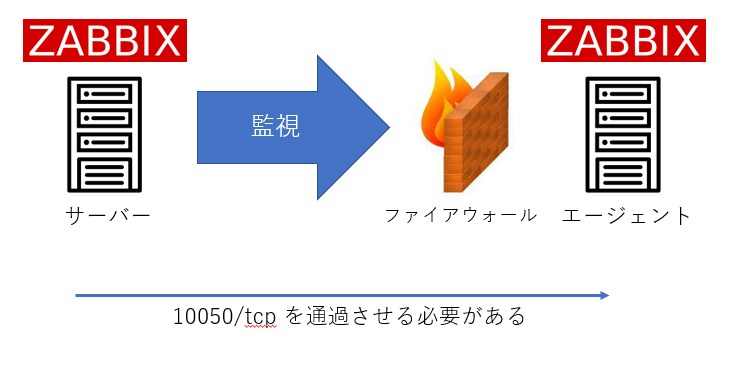
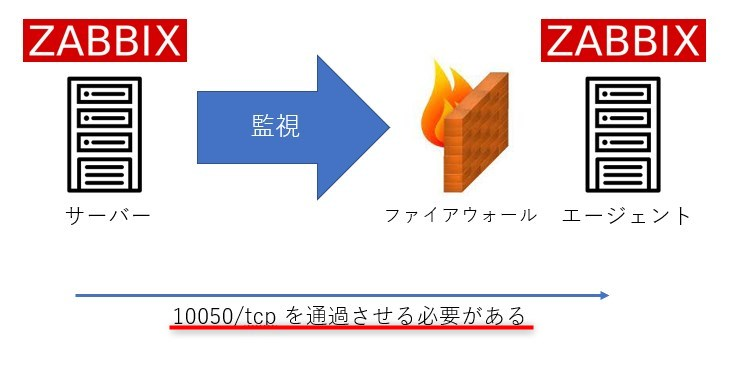
画像の差替と微修正

Changed region(s): [[0.2132, 0.8716, 0.7311, 0.9317]]

diff --git a/norikazum/2022/how-to-monitor-using-zabbix-proxy/index.md b/norikazum/2022/how-to-monitor-using-zabbix-proxy/index.md
@@ -79,7 +79,7 @@ dnf -y intall zabbix-sql-scripts
 `mysql_secure_installation` コマンドを利用して、MySQL サーバー初期設定します。
 
 実行結果は以下のとおり。
-```
+```bash
 # mysql_secure_installation
 
 Securing the MySQL server deployment.
@@ -151,7 +151,7 @@ All done!
 ### データベースの作成
 
 以下の流れでデータベースを作成します。
-```
+```bash
 mysql -uroot -p
 create database zabbix_プロキシ character set utf8mb4 collate utf8mb4_bin;
 create user 'zabbix'@'localhost' identified by 'password';
@@ -162,7 +162,7 @@ quit;
 ### データベースに初期データの投入
 準備されているSQLを利用したデータを投入します。
 ※トラブルポイントです。
-```
+```bash
 cat /usr/share/doc/zabbix-sql-scripts/mysql/プロキシ.sql | mysql -uzabbix -p zabbix_プロキシ
 Enter password:
 ERROR 1050 (42S01) at line 2079: Table 'dbversion' already exists
@@ -218,7 +218,7 @@ cat /usr/share/doc/zabbix-sql-scripts/mysql/proxy.sql | mysql -uzabbix -p zabbix
 
 `/etc/zabbix/zabbix_agentd.conf` を以下の項目を修正します。
 
-```
+```bash
 Server=x.x.x.x
 Hostname=zabbix-proxy
 DBHost=localhost
@@ -230,24 +230,42 @@ TLSPSKIdentity=zabbix-proxy
 TLSPSKFile=/etc/zabbix/zabbix_proxy.psk
 ```
 
-それぞれの設定値について説明です。
+それぞれの設定値について説明します。
 
-`Server`：IPアドレスを設定を設定します。本記事ではグローバルIPアドレスの想定です。
-`Hostname`：任意のホスト名を設定します。後述の**zabbix server のプロキシ名と同名にする必要があります**。
-`DBHost`：今回の記事では `localhost` になります。
-`DBPassword`：設定したデータベースパスワードを平文で入力します。
-`ConfigFrequency`：zabbixサーバーから設定データを取得する頻度を秒単位で入力します。
-`TLSConnect`：zabbixサーバーとzabbixプロキシ間の通信を暗号化するため、`psk`と入力します。
-`TLSAccept`：zabbixサーバーとzabbixプロキシ間の通信を暗号化するため、`psk`と入力します。
-`TLSPSKIdentity`：zabbixサーバーに入力する`Identity`を入力します。わかりやすく`Hostname`と同名にしています。
-`TLSPSKFile`：pskファイルのパスを入力します。`/etc/zabbix/zabbix_プロキシ.psk` 次のコマンドで生成します。`openssl rand -hex 32 > /etc/zabbix/zabbix_プロキシ.psk`
+- Server
+    - IPアドレスを設定を設定します。本記事ではグローバルIPアドレスの想定です。
+
+- Hostname
+    - 任意のホスト名を設定します。後述の**zabbix サーバー に設定するプロキシ名と同名にする必要があります**。
+
+- DBHost
+    - 今回の記事では `localhost` になります。
+
+- DBPassword
+    - 設定したデータベースパスワードを平文で入力します。
+
+- ConfigFrequency
+    - zabbixサーバーから設定データを取得する頻度を秒単位で入力します。
+
+- TLSConnect
+    - zabbixサーバーとzabbixプロキシ間の通信を暗号化するため、`psk`と入力します。
+
+- TLSAccept
+    - zabbixサーバーとzabbixプロキシ間の通信を暗号化するため、`psk`と入力します。
+
+- TLSPSKIdentity
+    - zabbixサーバーに入力する`Identity`を入力します。わかりやすく`Hostname`と同名にしています。
+
+- TLSPSKFile
+    - pskファイルのパスを入力します。
+    - 次のコマンドで生成します。`openssl rand -hex 32 > /etc/zabbix/zabbix_proxy.psk`
 
 パラメーターは[公式ページ](https://www.zabbix.com/documentation/current/jp/manual/appendix/config/zabbix_proxy)も参考にしてください。
 
 ### サービス起動
 
 以下のコマンドを実行し、`zabbix-proxy` を起動します。
-```
+```bash
 systemctl enable zabbix-proxy
 systemctl start zabbix-proxy
 ```
